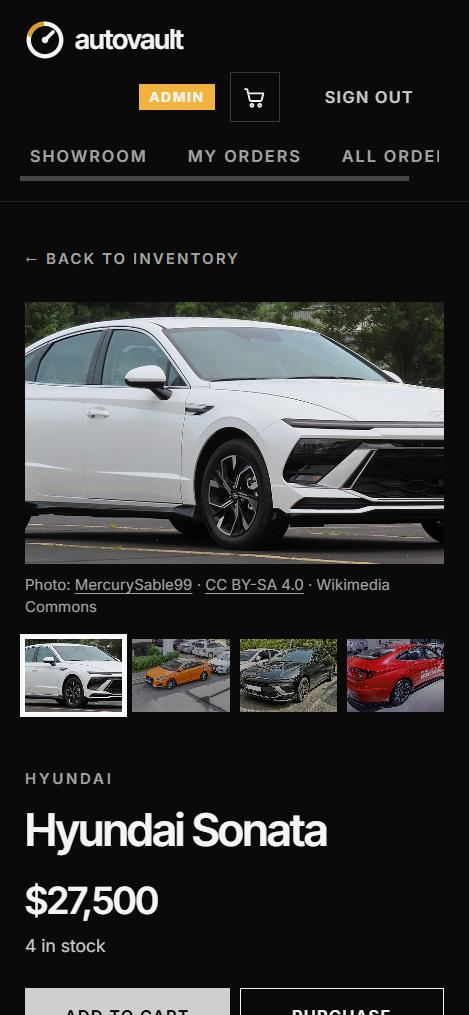
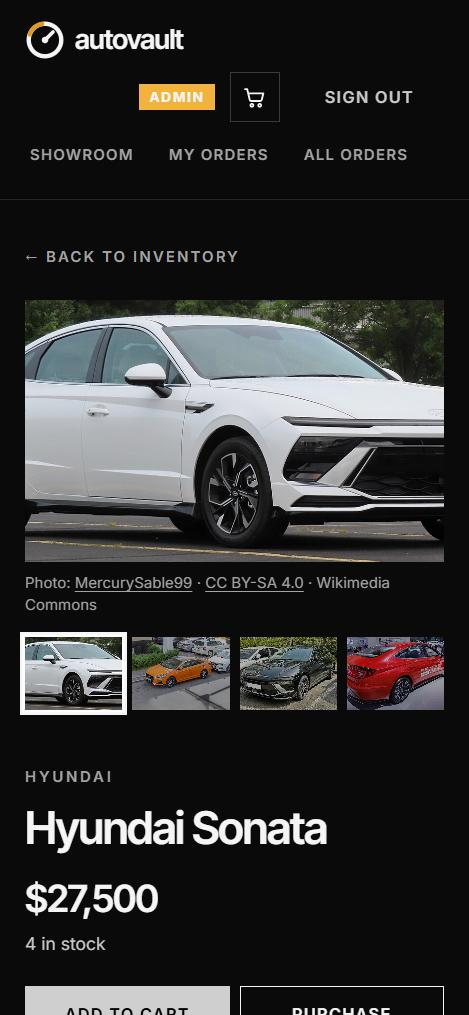
docs: phone screenshot with the fixed nav; test count

diff --git a/README.md b/README.md
@@ -6,7 +6,7 @@ A full-stack inventory system for a car dealership: customers browse a showroom 
 
 ![Showroom: category shortcuts, filters and vehicle cards with live stock](docs/screenshots/03-showroom.jpg)
 
-**Tests:** 232 backend + 87 frontend, all passing · **Coverage:** backend 98.6% statements, frontend 95.9% statements · [Full test report](docs/TEST_REPORT.md)
+**Tests:** 232 backend + 88 frontend, all passing · **Coverage:** backend 98.6% statements, frontend 95.9% statements · [Full test report](docs/TEST_REPORT.md)
 
 ---
 
@@ -197,7 +197,7 @@ cd frontend && npm test              # or npm run test:coverage
 | Suite | Tests | Statements | Branches | Functions | Lines |
 |---|---|---|---|---|---|
 | Backend (Jest) | 232 / 232 | 98.61% | 93.41% | 100% | 98.91% |
-| Frontend (Vitest) | 87 / 87 | 95.87% | 90.81% | 95.67% | 97.2% |
+| Frontend (Vitest) | 88 / 88 | 95.87% | 90.81% | 95.67% | 97.2% |
 
 The [full test report](docs/TEST_REPORT.md) lists every test and per-file coverage.
 
